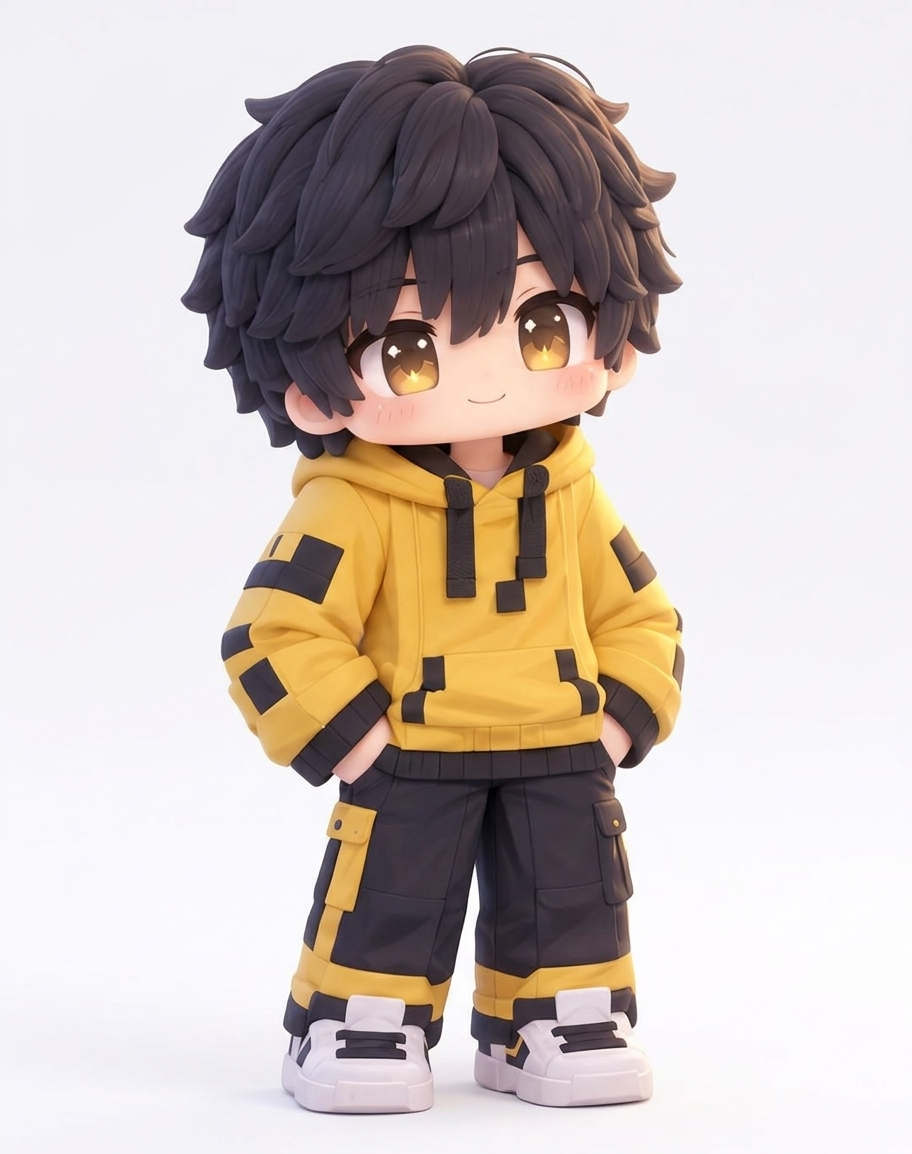
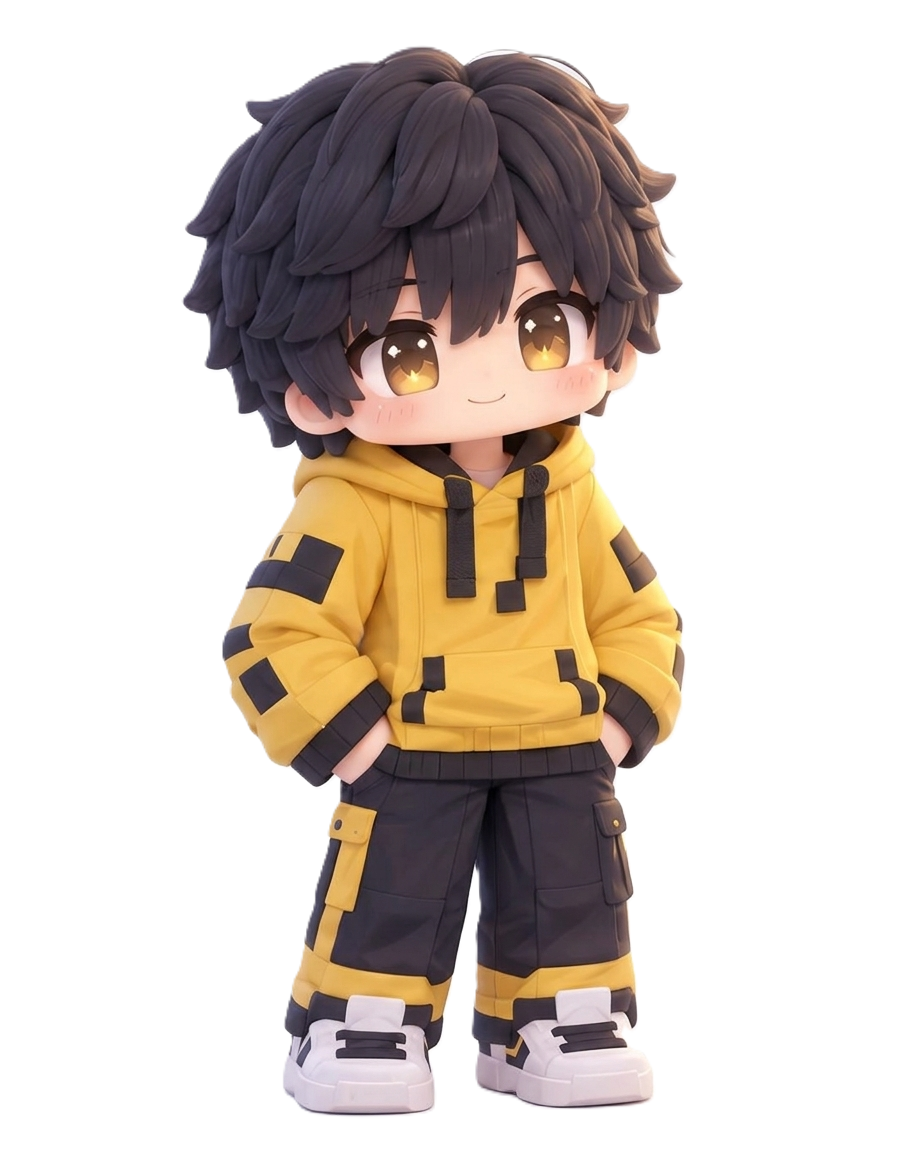
i AM AADD THINKG

diff --git a/index.html b/index.html
@@ -33,9 +33,10 @@
     </div>
 
     <nav class="nav-links" aria-label="Main navigation">
-      <a class="active" href="#home">Home</a>
-      <a href="#about">About</a>
-      <a href="Exploration.html">Exploration</a>
+      <a href="index.html">Home</a>
+      <a href="index.html#about">About</a>
+      <a class="active" href="Exploration.html" aria-current="page">Exploration</a>
+      <a href="stories/index.html">Stories</a>
     </nav>
     <button class="menu-toggle" aria-label="Toggle navigation" aria-expanded="false"><span></span><span></span><span></span></button>
   </header>
